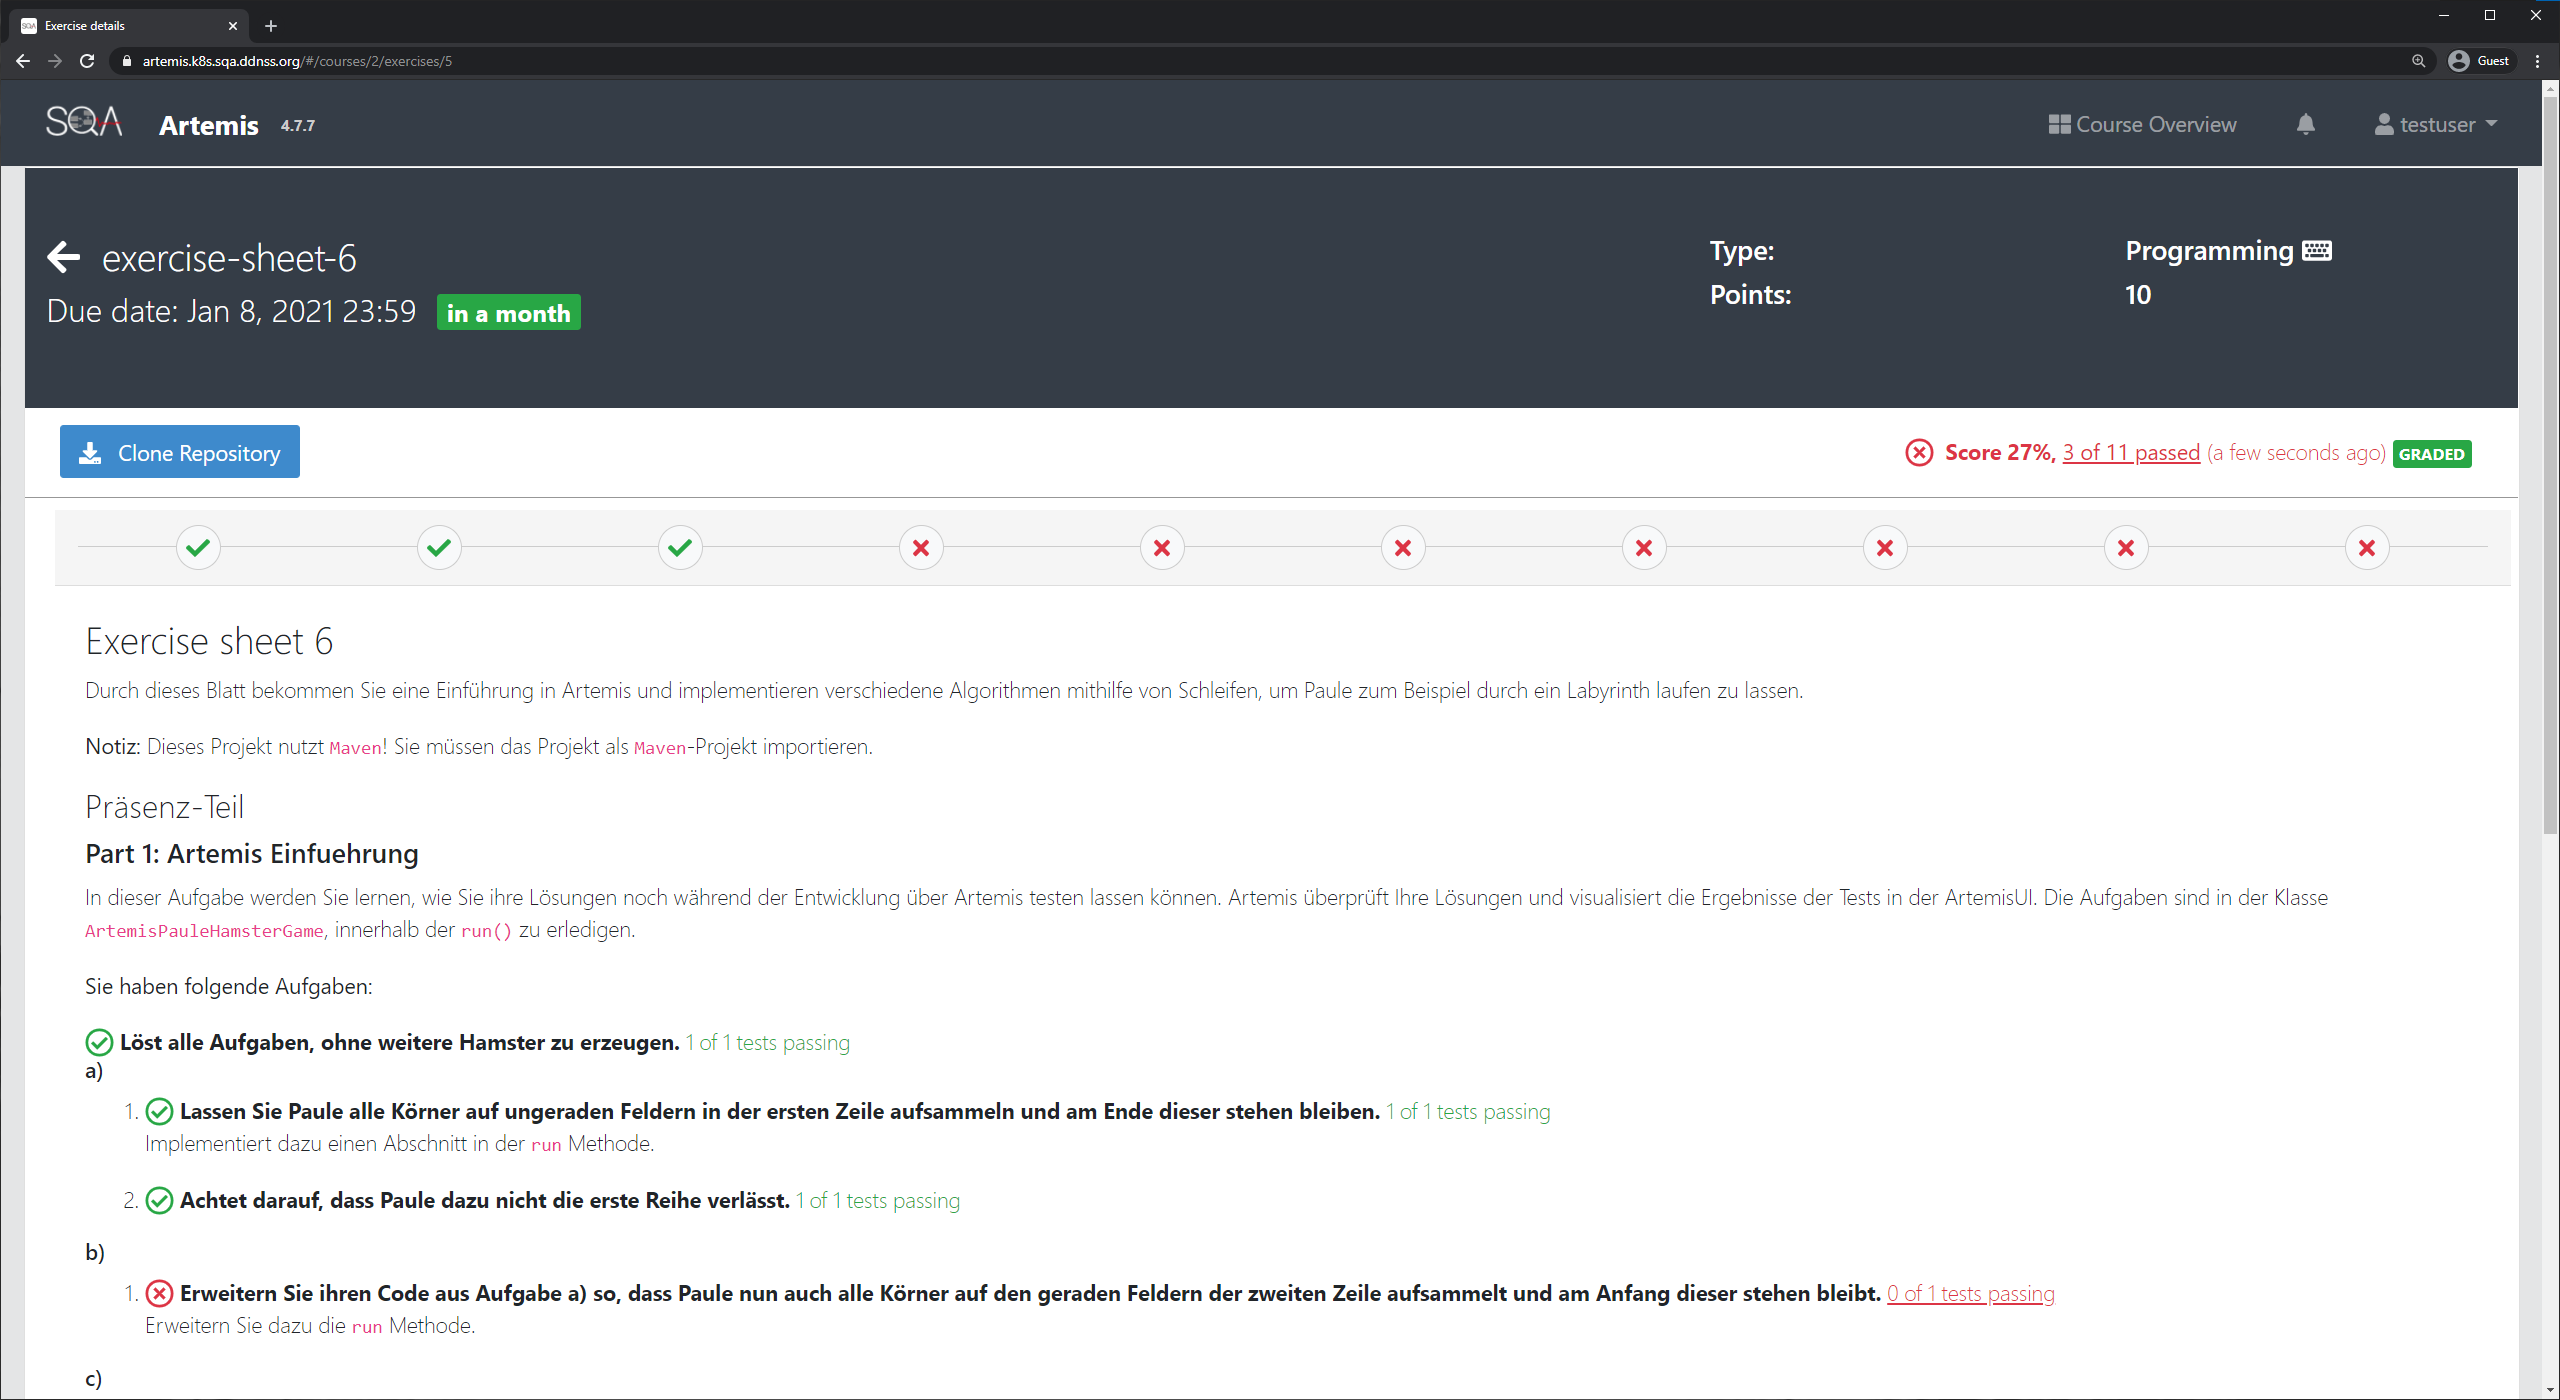
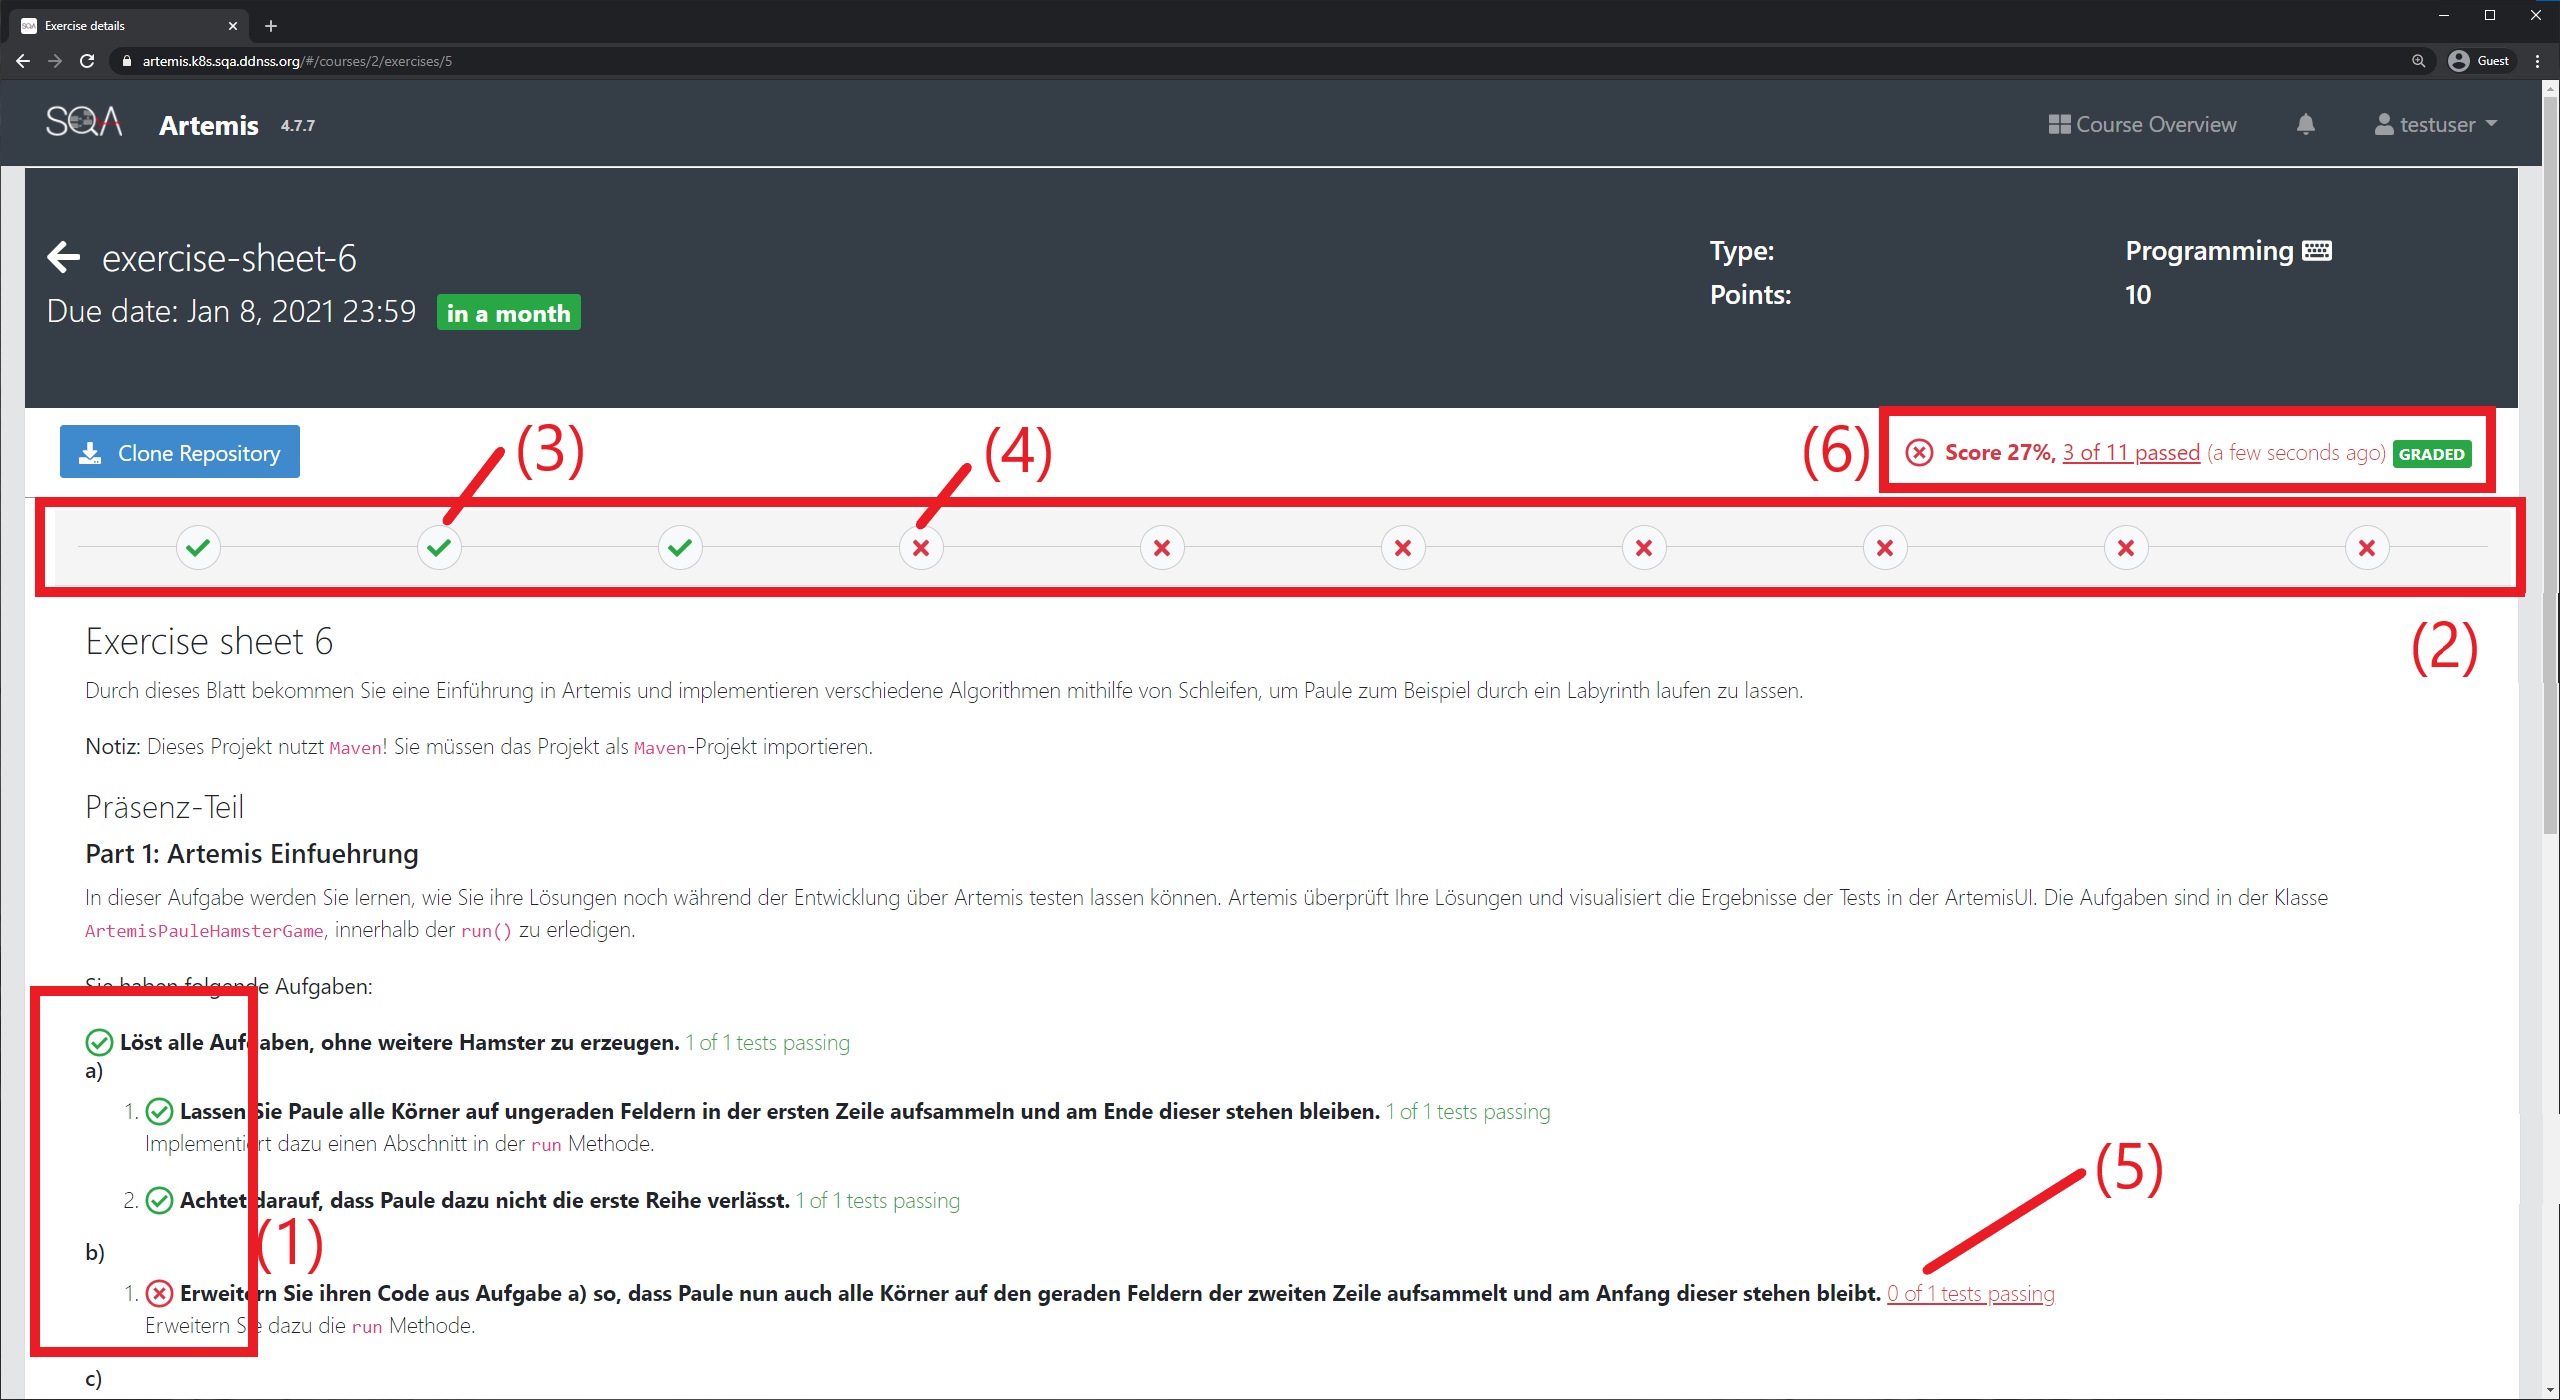
added documentation for exercise view

Changed region(s): [[0.0, 0.2764, 1.0, 0.4914], [0.0, 0.7064, 0.125, 0.9829], [0.75, 0.7986, 0.8438, 0.9214]]

diff --git a/doc.md b/doc.md
@@ -89,3 +89,13 @@ Das Artemis der Universität Stuttgart findet man unter [https://artemis.k8s.sqa
 
 ![Aufgabendetails](Images/exercise_detail.png)
 ![Feedback](Images/feedback.png)
+- Eine Aufgabe besteht aus mehreren Tasks **(1)**
+- Sobald eine Lösung hochgeladen wurde, wird automatisch überprüft, welche Tasks erfüllt sind
+    - Erfüllte Tasks werden mit einem grünen Haken **(3)** markiert
+    - Nicht erfüllte Tasks werden mit einem roten Kreuz **(4)** markiert
+    - Eine Teilaufgabe des Aufgabenblatts kann mehrere Tasks haben, es kann auch Tasks geben die keiner Teilaufgabe zugeordnet sind (z.B. spawne keine weiteren Hamster)
+- Über der Aufgabenbeschreibung befindet sich eine Übersicht aller Tasks **(2)** sowie welcher Anteil aller Tasks erfüllt ist **(6)**
+- Durch einen Klick auf **(4), (5)** und **(6)** erhält man Feedback **(7)**, warum der jeweilige Task nicht erfüllt wurde
+    - Dies geschieht meistens durch eine Fehlermeldung **(8)** und/oder einer genaueren Nachricht
+- Für Herunterladen (clonen) eines Projektes siehe [Aufgabenübersicht](#Aufgabenübersicht)
+- Für Hochladen (pushen) eines Projektes siehe Video _Versionskontrolle mit git (Theorie)_ und Anleitung Übungsblatt, Anleitung hier folgt
